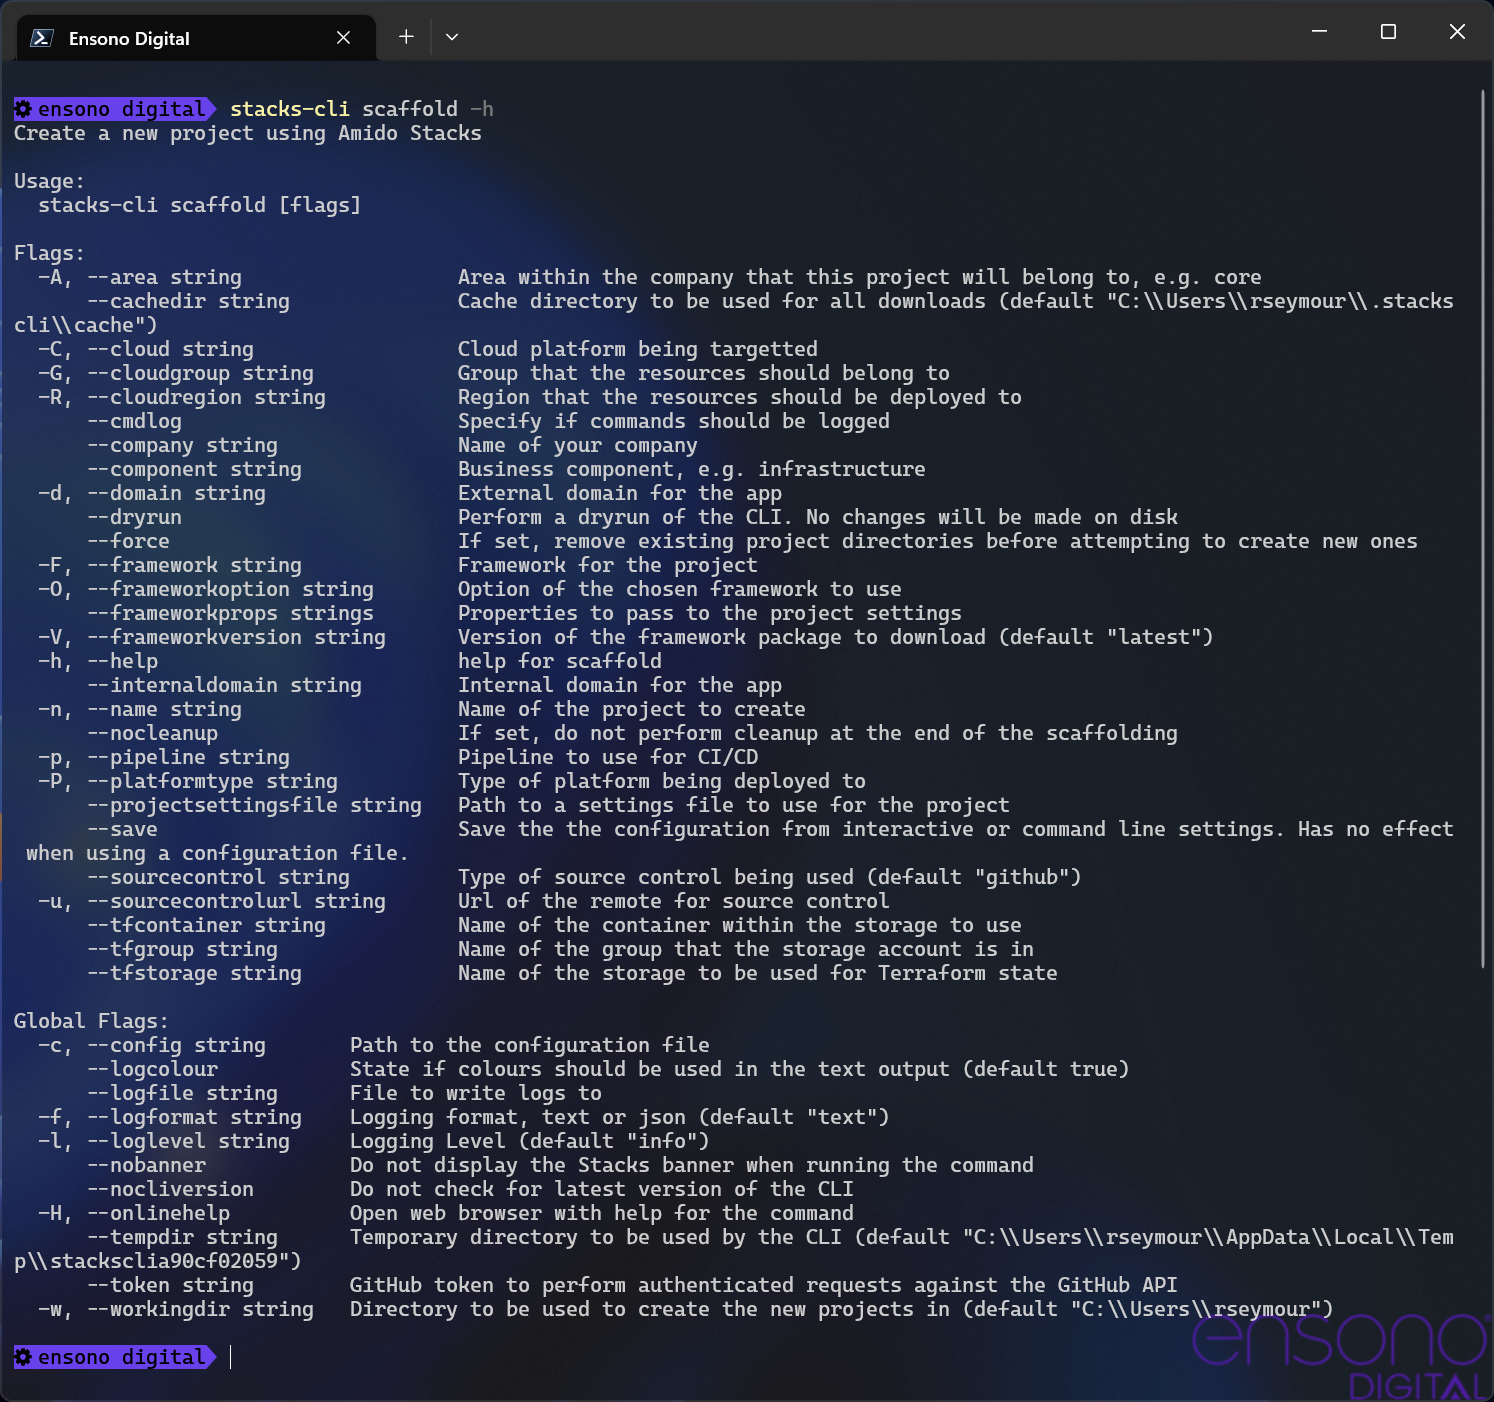
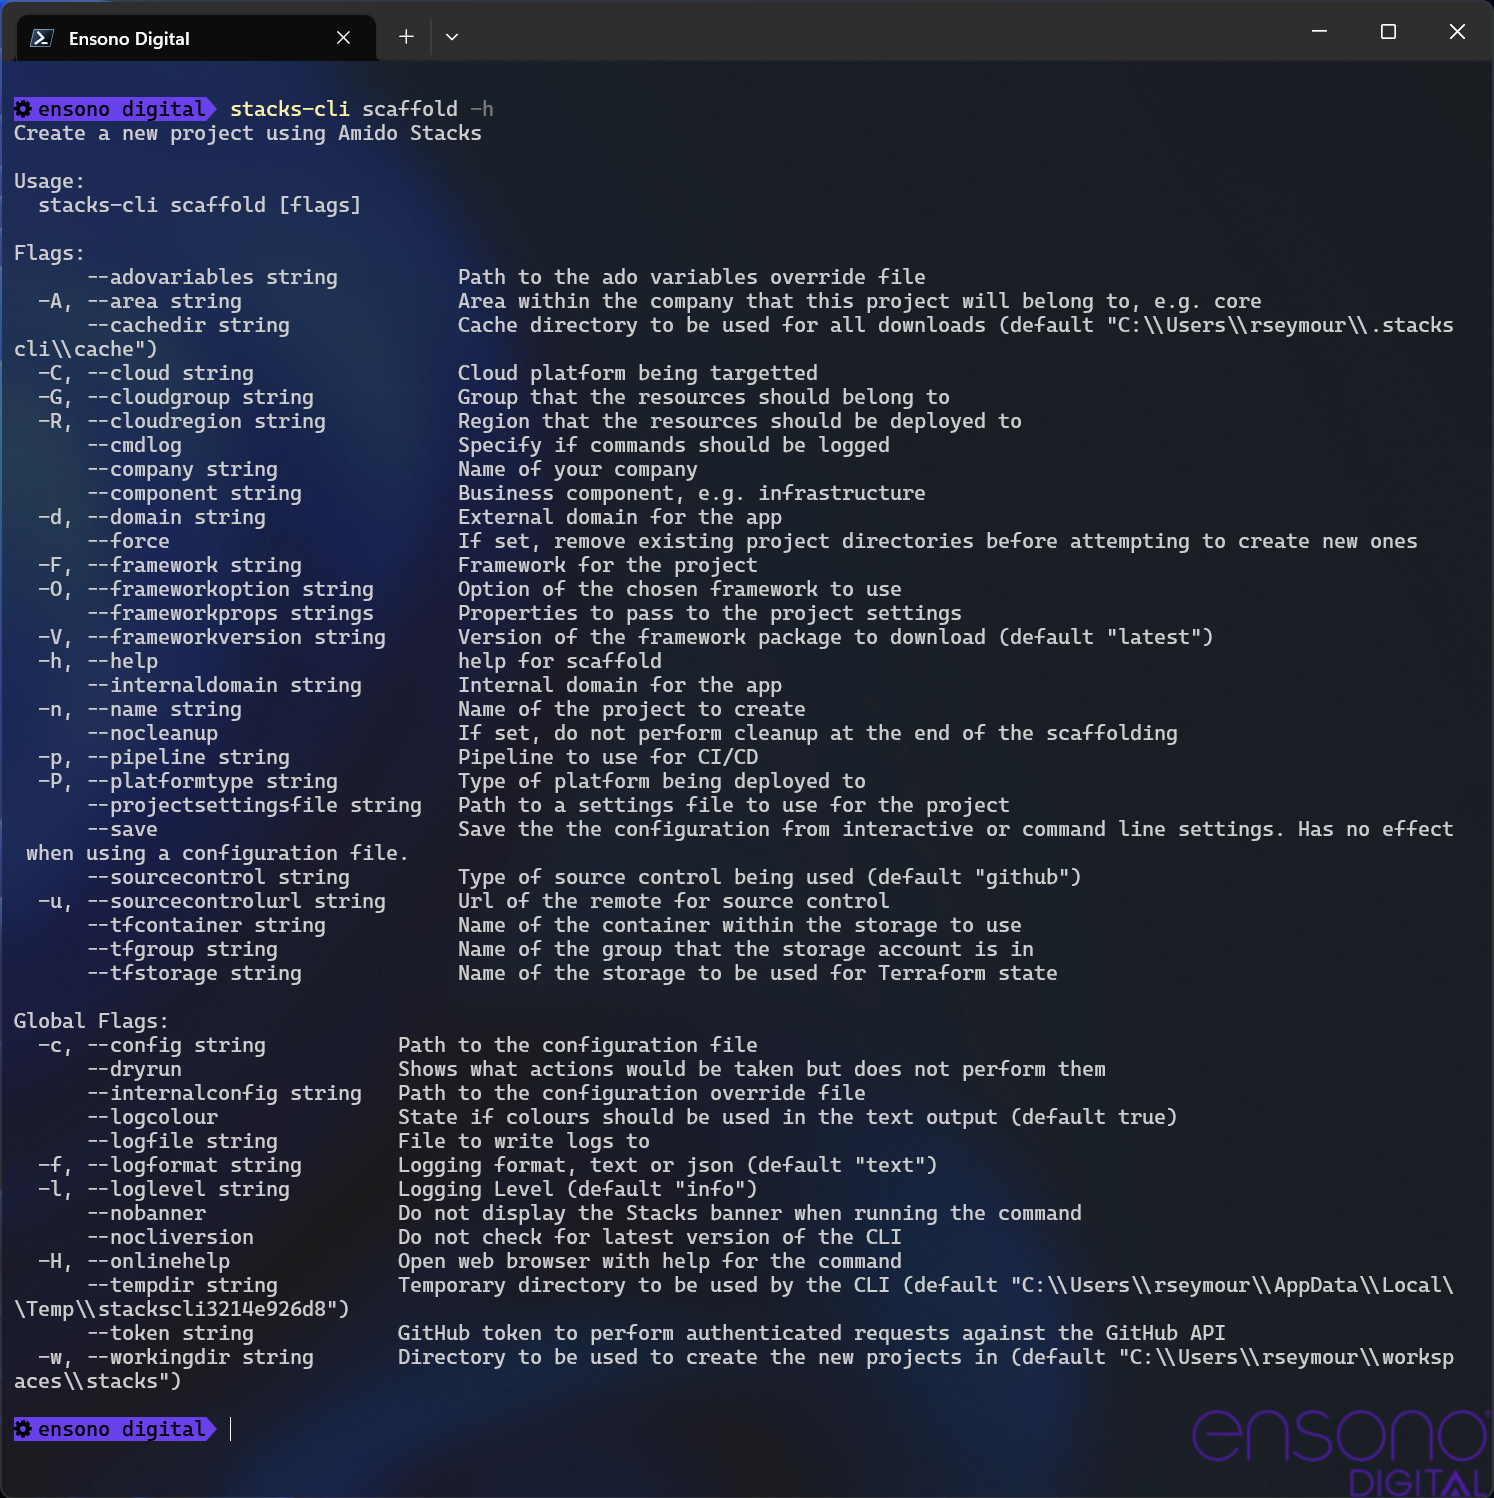
Added ability to override settings

diff --git a/cmd/scaffold.go b/cmd/scaffold.go
@@ -1,6 +1,10 @@
 package cmd
 
 import (
+	"log"
+	"os"
+
+	"github.com/amido/stacks-cli/internal/config/staticFiles"
 	"github.com/amido/stacks-cli/internal/util"
 	"github.com/amido/stacks-cli/pkg/scaffold"
 	"github.com/spf13/cobra"
@@ -65,6 +69,9 @@ func init() {
 	var network_base_domain_external string
 	var network_base_domain_internal string
 
+	// - overrides
+	var override_ado_variables string
+
 	// get the default directories
 	defaultCacheDir := util.GetDefaultCacheDir()
 
@@ -105,6 +112,8 @@ func init() {
 	scaffoldCmd.Flags().StringVarP(&network_base_domain_external, "domain", "d", "", "External domain for the app")
 	scaffoldCmd.Flags().StringVar(&network_base_domain_internal, "internaldomain", "", "Internal domain for the app")
 
+	scaffoldCmd.Flags().StringVar(&override_ado_variables, "adovariables", "", "Path to the ado variables override file")
+
 	scaffoldCmd.Flags().BoolVar(&cmdlog, "cmdlog", false, "Specify if commands should be logged")
 	scaffoldCmd.Flags().BoolVar(&saveConfig, "save", false, "Save the the configuration from interactive or command line settings. Has no effect when using a configuration file.")
 	scaffoldCmd.Flags().BoolVar(&nocleanup, "nocleanup", false, "If set, do not perform cleanup at the end of the scaffolding")
@@ -115,46 +124,65 @@ func init() {
 	// The project is a slice, so that multiple projects can be specified, however
 	// only one can be specified on the command line and in Environment variables
 	// Viper works out that this is a slice and will bind to the first element of the slice
-	viper.BindPFlag("project.name", scaffoldCmd.Flags().Lookup("name"))
-	viper.BindPFlag("project.platform.type", scaffoldCmd.Flags().Lookup("platformtype"))
-	viper.BindPFlag("project.sourcecontrol.type", scaffoldCmd.Flags().Lookup("sourcecontrol"))
-	viper.BindPFlag("project.sourcecontrol.url", scaffoldCmd.Flags().Lookup("sourcecontrolurl"))
+	viper.BindPFlag("input.project.name", scaffoldCmd.Flags().Lookup("name"))
+	viper.BindPFlag("input.project.platform.type", scaffoldCmd.Flags().Lookup("platformtype"))
+	viper.BindPFlag("input.project.sourcecontrol.type", scaffoldCmd.Flags().Lookup("sourcecontrol"))
+	viper.BindPFlag("input.project.sourcecontrol.url", scaffoldCmd.Flags().Lookup("sourcecontrolurl"))
 
-	viper.BindPFlag("project.settingsfile", scaffoldCmd.Flags().Lookup("projectsettingsfile"))
-	viper.BindPFlag("project.cloud.region", scaffoldCmd.Flags().Lookup("cloudregion"))
-	viper.BindPFlag("project.cloud.group", scaffoldCmd.Flags().Lookup("cloudgroup"))
+	viper.BindPFlag("input.project.settingsfile", scaffoldCmd.Flags().Lookup("projectsettingsfile"))
+	viper.BindPFlag("input.project.cloud.region", scaffoldCmd.Flags().Lookup("cloudregion"))
+	viper.BindPFlag("input.project.cloud.group", scaffoldCmd.Flags().Lookup("cloudgroup"))
 
 	// configure the project framework settings
-	viper.BindPFlag("project.framework.type", scaffoldCmd.Flags().Lookup("framework"))
-	viper.BindPFlag("project.framework.option", scaffoldCmd.Flags().Lookup("frameworkoption"))
-	viper.BindPFlag("project.framework.version", scaffoldCmd.Flags().Lookup("frameworkversion"))
+	viper.BindPFlag("input.project.framework.type", scaffoldCmd.Flags().Lookup("framework"))
+	viper.BindPFlag("input.project.framework.option", scaffoldCmd.Flags().Lookup("frameworkoption"))
+	viper.BindPFlag("input.project.framework.version", scaffoldCmd.Flags().Lookup("frameworkversion"))
 
 	// -- bind the framework properties to the project framework
-	viper.BindPFlag("project.framework.properties", scaffoldCmd.Flags().Lookup("frameworkprops"))
+	viper.BindPFlag("input.project.framework.properties", scaffoldCmd.Flags().Lookup("frameworkprops"))
 
-	viper.BindPFlag("settingsfile", scaffoldCmd.Flags().Lookup("settingsfile"))
+	viper.BindPFlag("input.settingsfile", scaffoldCmd.Flags().Lookup("settingsfile"))
 
-	viper.BindPFlag("pipeline", scaffoldCmd.Flags().Lookup("pipeline"))
+	viper.BindPFlag("input.pipeline", scaffoldCmd.Flags().Lookup("pipeline"))
 
-	viper.BindPFlag("cloud.platform", scaffoldCmd.Flags().Lookup("cloud"))
+	viper.BindPFlag("input.cloud.platform", scaffoldCmd.Flags().Lookup("cloud"))
 
-	viper.BindPFlag("business.company", scaffoldCmd.Flags().Lookup("company"))
-	viper.BindPFlag("business.domain", scaffoldCmd.Flags().Lookup("area"))
-	viper.BindPFlag("business.component", scaffoldCmd.Flags().Lookup("component"))
+	viper.BindPFlag("input.business.company", scaffoldCmd.Flags().Lookup("company"))
+	viper.BindPFlag("input.business.domain", scaffoldCmd.Flags().Lookup("area"))
+	viper.BindPFlag("input.business.component", scaffoldCmd.Flags().Lookup("component"))
 
-	viper.BindPFlag("terraform.backend.storage", scaffoldCmd.Flags().Lookup("tfstorage"))
-	viper.BindPFlag("terraform.backend.group", scaffoldCmd.Flags().Lookup("tfgroup"))
-	viper.BindPFlag("terraform.backend.container", scaffoldCmd.Flags().Lookup("tfcontainer"))
+	viper.BindPFlag("input.terraform.backend.storage", scaffoldCmd.Flags().Lookup("tfstorage"))
+	viper.BindPFlag("input.terraform.backend.group", scaffoldCmd.Flags().Lookup("tfgroup"))
+	viper.BindPFlag("input.terraform.backend.container", scaffoldCmd.Flags().Lookup("tfcontainer"))
 
-	viper.BindPFlag("network.base.domain.external", scaffoldCmd.Flags().Lookup("domain"))
-	viper.BindPFlag("network.base.domain.internal", scaffoldCmd.Flags().Lookup("internaldomain"))
+	viper.BindPFlag("input.network.base.domain.external", scaffoldCmd.Flags().Lookup("domain"))
+	viper.BindPFlag("input.network.base.domain.internal", scaffoldCmd.Flags().Lookup("internaldomain"))
 
-	viper.BindPFlag("directory.cache", scaffoldCmd.Flags().Lookup("cachedir"))
+	viper.BindPFlag("input.directory.cache", scaffoldCmd.Flags().Lookup("cachedir"))
 
-	viper.BindPFlag("options.cmdlog", scaffoldCmd.Flags().Lookup("cmdlog"))
-	viper.BindPFlag("options.save", scaffoldCmd.Flags().Lookup("save"))
-	viper.BindPFlag("options.nocleanup", scaffoldCmd.Flags().Lookup("nocleanup"))
-	viper.BindPFlag("options.force", scaffoldCmd.Flags().Lookup("force"))
+	viper.BindPFlag("input.overrides.ado_variables_path", scaffoldCmd.Flags().Lookup("adovariables"))
+
+	viper.BindPFlag("input.options.cmdlog", scaffoldCmd.Flags().Lookup("cmdlog"))
+	viper.BindPFlag("input.options.save", scaffoldCmd.Flags().Lookup("save"))
+	viper.BindPFlag("input.options.nocleanup", scaffoldCmd.Flags().Lookup("nocleanup"))
+	viper.BindPFlag("input.options.force", scaffoldCmd.Flags().Lookup("force"))
+}
+
+// ScaffoldOverrides updates the main configuration with any override files that have been specified on
+// the command line.
+// It is not set as a prerun function because it has to be read in at the appropriate point in the root command
+func ScaffoldOverrides() {
+
+	override_ado_variables := viper.GetString("input.overrides.ado_variables_path")
+	if override_ado_variables != "" {
+		data, err := os.ReadFile(override_ado_variables)
+		if err != nil {
+			log.Fatalf("Unable to read in ADO variables override file (%s): %s", err.Error(), override_ado_variables)
+			App.Logger.Exit(3)
+		}
+
+		staticFiles.Ado_Variable_Template_Tmpl = string(data)
+	}
 }
 
 func executeScaffoldRun(ccmd *cobra.Command, args []string) {

diff --git a/cmd/root.go b/cmd/root.go
@@ -66,6 +66,8 @@ func init() {
 
 	var githubToken string
 
+	var override_internal_config string
+
 	cobra.OnInitialize(initConfig)
 
 	// get the default directories
@@ -89,23 +91,26 @@ func init() {
 
 	rootCmd.PersistentFlags().StringVar(&githubToken, "token", "", "GitHub token to perform authenticated requests against the GitHub API")
 
+	rootCmd.PersistentFlags().StringVar(&override_internal_config, "internalconfig", "", "Path to the configuration override file")
+
 	// Bind command line arguments
 	viper.BindPFlags(rootCmd.Flags())
 
 	// Configure the logging options
-	viper.BindPFlag("log.format", rootCmd.PersistentFlags().Lookup("logformat"))
-	viper.BindPFlag("log.colour", rootCmd.PersistentFlags().Lookup("logcolour"))
-	viper.BindPFlag("log.level", rootCmd.PersistentFlags().Lookup("loglevel"))
-	viper.BindPFlag("log.file", rootCmd.PersistentFlags().Lookup("logfile"))
+	viper.BindPFlag("input.log.format", rootCmd.PersistentFlags().Lookup("logformat"))
+	viper.BindPFlag("input.log.colour", rootCmd.PersistentFlags().Lookup("logcolour"))
+	viper.BindPFlag("input.log.level", rootCmd.PersistentFlags().Lookup("loglevel"))
+	viper.BindPFlag("input.log.file", rootCmd.PersistentFlags().Lookup("logfile"))
 
-	viper.BindPFlag("directory.working", rootCmd.PersistentFlags().Lookup("workingdir"))
-	viper.BindPFlag("directory.temp", rootCmd.PersistentFlags().Lookup("tempdir"))
+	viper.BindPFlag("input.directory.working", rootCmd.PersistentFlags().Lookup("workingdir"))
+	viper.BindPFlag("input.directory.temp", rootCmd.PersistentFlags().Lookup("tempdir"))
 
-	viper.BindPFlag("options.nobanner", rootCmd.PersistentFlags().Lookup("nobanner"))
-	viper.BindPFlag("options.nocliversion", rootCmd.PersistentFlags().Lookup("nocliversion"))
-	viper.BindPFlag("options.onlinehelp", rootCmd.PersistentFlags().Lookup("onlinehelp"))
-	viper.BindPFlag("options.dryrun", rootCmd.PersistentFlags().Lookup("dryrun"))
+	viper.BindPFlag("input.options.nobanner", rootCmd.PersistentFlags().Lookup("nobanner"))
+	viper.BindPFlag("input.options.nocliversion", rootCmd.PersistentFlags().Lookup("nocliversion"))
+	viper.BindPFlag("input.options.onlinehelp", rootCmd.PersistentFlags().Lookup("onlinehelp"))
+	viper.BindPFlag("input.options.dryrun", rootCmd.PersistentFlags().Lookup("dryrun"))
 
+	viper.BindPFlag("input.overrides.internal_config", rootCmd.Flags().Lookup("internalconfig"))
 }
 
 // initConfig reads in a config file and ENV vars if set
@@ -149,16 +154,35 @@ func preRun(ccmd *cobra.Command, args []string) {
 		App.Logger.Exit(1)
 	}
 
-	err = viper.Unmarshal(&Config.Input)
+	// Determine if the internal configuration has been overridden
+	override_internal := viper.GetString("input.overrides.internal_config")
+	if override_internal != "" {
+		data, err := os.ReadFile(override_internal)
+		if err != nil {
+			log.Fatalf("Unable to read in specific override file (%s): %s", err.Error(), override_internal)
+			App.Logger.Exit(2)
+		}
+
+		viper.MergeConfig(strings.NewReader(string(data)))
+	}
+
+	ScaffoldOverrides()
+
+	// Unmarshal the configuration into the models in the application
+	err = viper.Unmarshal(&Config)
 	if err != nil {
 		log.Fatalf("Unable to read configuration into models: %v", err)
-		App.Logger.Exit(2)
+		App.Logger.Exit(4)
 	}
 
 	// Configure application logging
 	// This is done after unmarshalling of the configuration so that the
 	// model values can be used rather than the strings from viper
 	App.ConfigureLogging(Config.Input.Log)
+
+	if Config.Input.Overrides.InternalConfigPath != "" {
+		App.Logger.Infof("Using config override file: %s", Config.Input.Overrides.InternalConfigPath)
+	}
 
 	// Set the version of the app in the configuration
 	Config.Input.Version = version

diff --git a/pkg/config/help.go b/pkg/config/help.go
@@ -6,6 +6,7 @@ type Help struct {
 	Scaffold    string `mapstructure:"scaffold"`
 	Interactive string `mapstructure:"interactive"`
 	Version     string `mapstructure:"version"`
+	Export      string `mapstructure:"export"`
 }
 
 func (help *Help) GetUrl(cmd string) string {
@@ -21,6 +22,8 @@ func (help *Help) GetUrl(cmd string) string {
 		url = help.Interactive
 	case "version":
 		url = help.Version
+	case "export":
+		url = help.Export
 	}
 
 	return url

diff --git a/cmd/export.go b/cmd/export.go
@@ -30,7 +30,7 @@ func init() {
 	// Configure the flags
 	exportCmd.Flags().StringVarP(&directory, "directory", "d", util.GetDefaultWorkingDir(), "Directory to be used to export the files to")
 
-	viper.BindPFlag("directory.export", exportCmd.Flags().Lookup("directory"))
+	viper.BindPFlag("input.directory.export", exportCmd.Flags().Lookup("directory"))
 }
 
 func executeExportFiles(ccmd *cobra.Command, args []string) {

diff --git a/pkg/config/config.go b/pkg/config/config.go
@@ -32,7 +32,7 @@ type ReplaceConfig struct {
 type Config struct {
 	Commands      Commands       `mapstructure:"commands"`
 	FrameworkDefs []FrameworkDef `mapstructure:"frameworks" yaml:"frameworks"`
-	Input         InputConfig
+	Input         InputConfig    `mapstructure:"input" yaml:"input"`
 	Internal      Internal
 	Help          Help `mapstructure:"help"`
 	Replace       []ReplaceConfig

diff --git a/pkg/config/input_config.go b/pkg/config/input_config.go
@@ -28,6 +28,7 @@ type InputConfig struct {
 	Terraform    Terraform `mapstructure:"terraform"`
 	SettingsFile string    `mapstructure:"settingsfile" json:",omitempty"`
 	Options      Options   `mapstructure:"options"`
+	Overrides    Overrides `mapstructure:"overrides"`
 }
 
 // CheckFrameworks iterates around each of the projects and builds up a list of the frameworks

diff --git a/pkg/config/overrides.go b/pkg/config/overrides.go
@@ -1,0 +1,6 @@
+package config
+
+type Overrides struct {
+	InternalConfigPath string `mapstructure:"internal_config" yaml:"internal_config"`
+	AdoVariablesPath   string `mapstructure:"ado_variables_path" yaml:"ado_variables_path"`
+}
